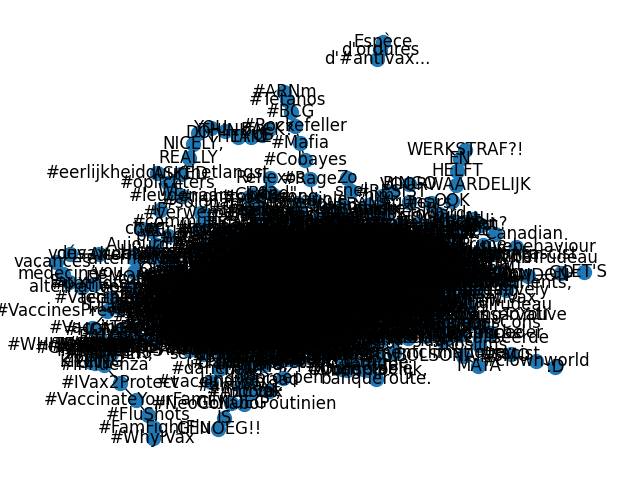
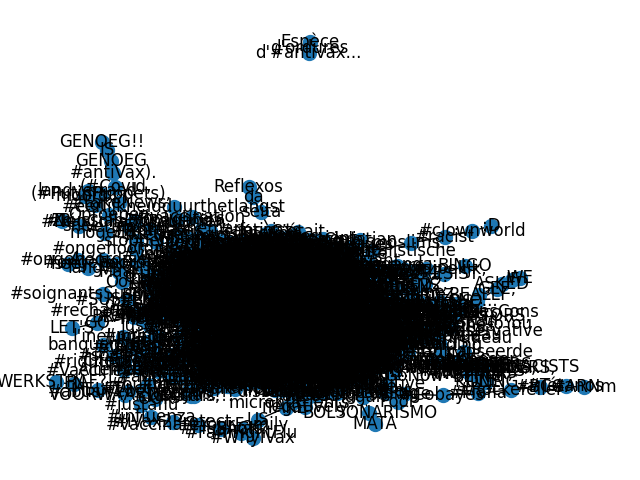
Final code commit.

Changed region(s): [[0.0, 0.1562, 0.9688, 0.9375], [0.4062, 0.0625, 0.6562, 0.1562]]

diff --git a/main.py b/main.py
@@ -27,10 +27,13 @@ def kyle():
             break
         antiVaxTweets.append(tweet.content)
 
+    # initiating a set to hold unique words
+    # initiating arrays to hold the edges
     uniqueProWords = set()
     uniqueAntiWords = set()
     proEdges = []
     antiEdges = []
+    # exclusion pattern to not accept any https which are gifs or any @ signs or most emojis
     exclusionPattern = re.compile(r'(^https|[\U00010000-\U0010ffff]|^@|\U0000231B)', flags=re.UNICODE)
 
     # node vals
@@ -50,6 +53,7 @@ def kyle():
             if i < len(words) - 1 and len(words) > 1:
                 proEdges.append((words[i], words[i + 1]))
 
+    # Same as the previous but with is for antiVax
     for tweet in antiVaxTweets:
         rawWords = tweet.split()
         words = []
@@ -63,10 +67,27 @@ def kyle():
             if i < len(words) - 1 and len(words) > 1:
                 antiEdges.append((words[i], words[i + 1]))
 
-    string_list = ["#GetVaccinated", "#antivax", "the", "to", 'to']
+    # This function is for page rank
+    def plot_pagerank_dist(graph, fileName):
+        pagerank_list = list(nx.pagerank(graph).values())
+        plt.hist(pagerank_list, alpha=0.85)
+        plt.xlabel('Degree')
+        plt.ylabel('Frequency')
+        plt.title('Histogram for Page Rank')
+        plt.savefig(fileName + ".png")
 
+    # this function is for clustering
+    def plot_clustering_dist(graph, fileName):
+        clustering_coeffs_list = list(nx.clustering(graph).values())
+        plt.hist(clustering_coeffs_list, bins=100, range=(0.0, 1.0), density=False)
+        plt.xlabel('Degree')
+        plt.ylabel('Frequency')
+        plt.title('Histogram for Clustering')
+        plt.savefig(fileName + ".png")
+
+    # This function is for degree distribution
     def plot_degree_dist(importedGraph, fileName):
-        degrees = [importedGraph.degree(n) for n in importedGraph.nodes() if n not in string_list]
+        degrees = [importedGraph.degree(n) for n in importedGraph.nodes()]
         plt.hist(degrees, bins=50, rwidth=20)
         plt.xlabel('Degree')
         plt.ylabel('Frequency')
@@ -75,13 +96,24 @@ def kyle():
 
     # Creating a graph and then saving it into a png
     g = nx.Graph()
+    # adding the nodes from the unique words for pro-vaccine
     g.add_nodes_from(list(uniqueProWords))
+    # adding the edges
     g.add_edges_from(proEdges)
+    # drawing the graph
     nx.draw(g, with_labels=True, node_size=100)
+    # styling the graph
     plt.title("Network Graph for Pro-Vaccine")
+    # Saving the figure as a png
     plt.savefig("networkGraphProVaccine.png")
+    # clearing the plt
     plt.clf()
+    # making three calls to functions and passing the graph to make histograms
     plot_degree_dist(g, "proVaxHistogram")
+    plt.clf()
+    plot_clustering_dist(g, "proClusteringHistogram")
+    plt.clf()
+    plot_pagerank_dist(g, "proPageRankHistogram")
 
     # clearing the graph and then also clearing the plt
     g.clear()
@@ -96,9 +128,10 @@ def kyle():
     plt.savefig("networkGraphAntiVaccine.png")
     plt.clf()
     plot_degree_dist(g, "antiVaxHistogram")
-
-    g.clear()
     plt.clf()
+    plot_clustering_dist(g, "antiClusteringHistogram")
+    plt.clf()
+    plot_pagerank_dist(g, "antiPageRankHistogram")
 
 
 if __name__ == "__main__":
